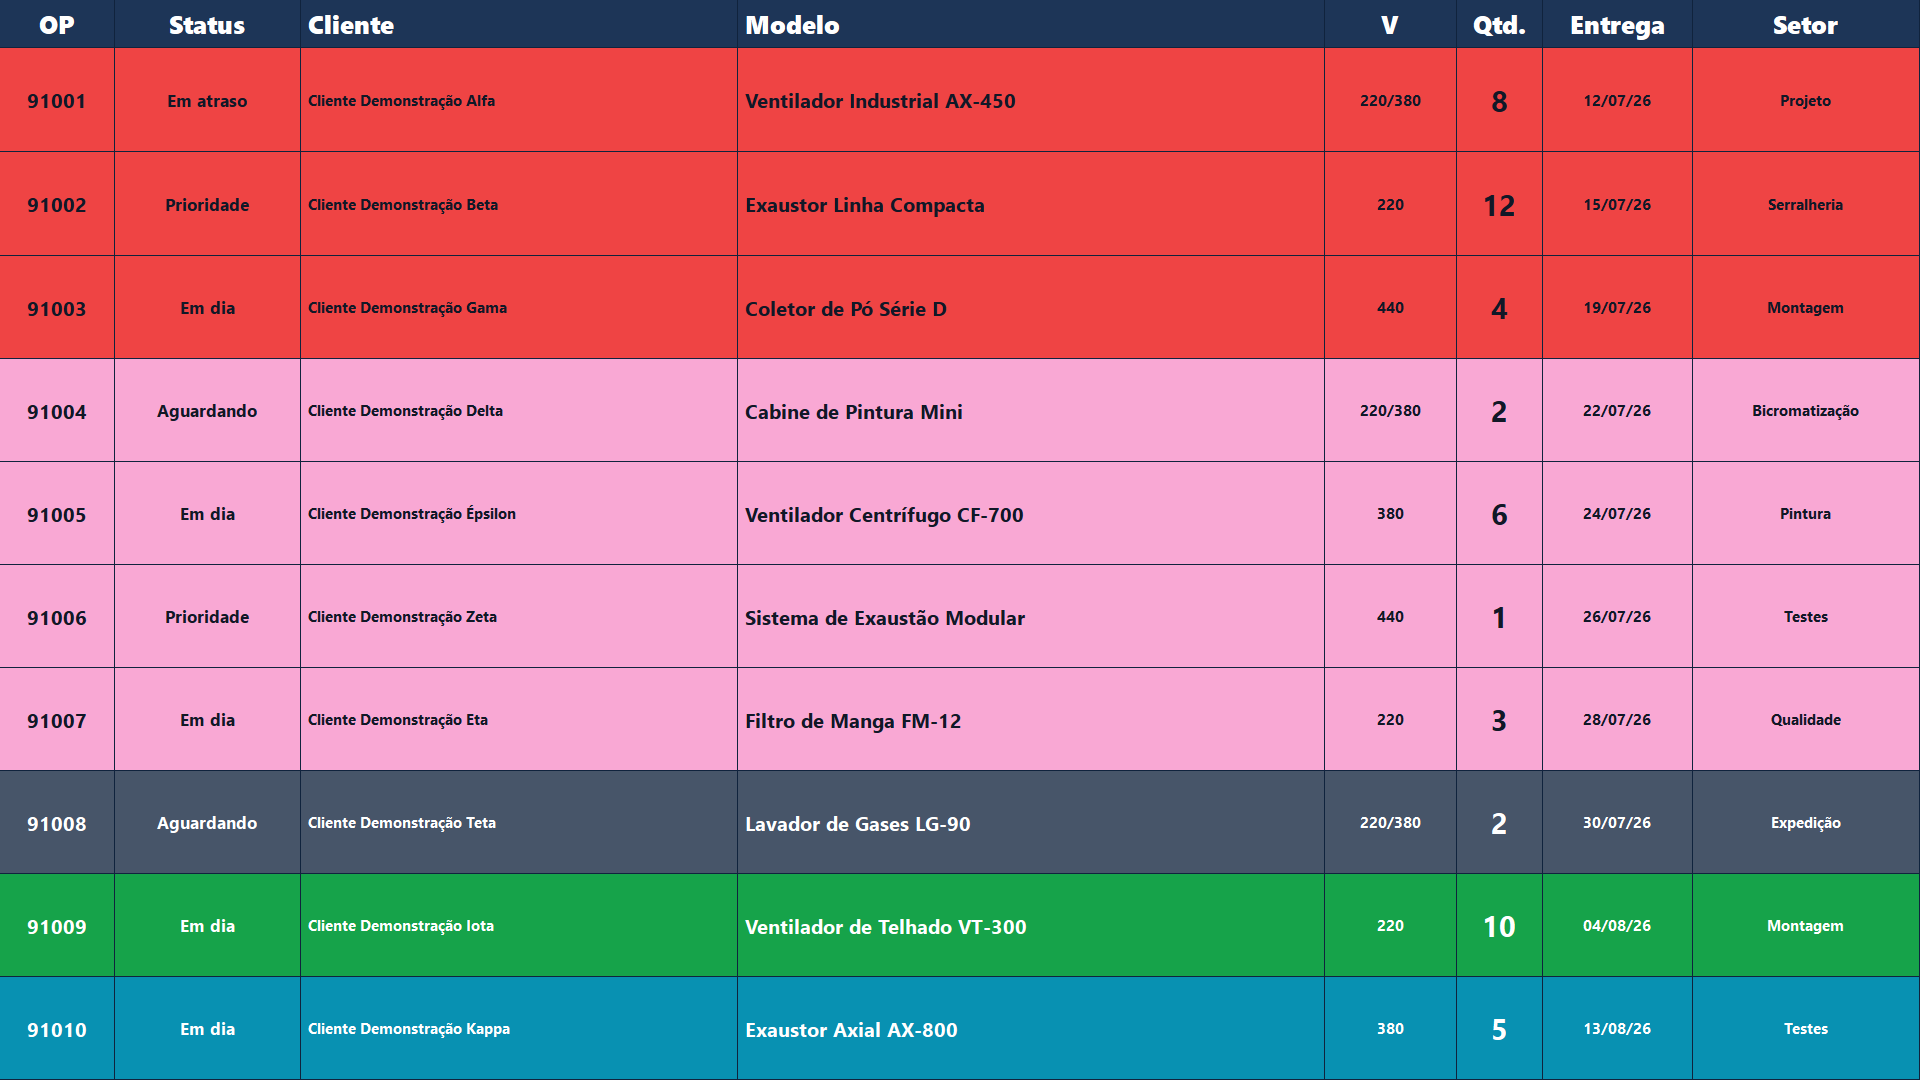
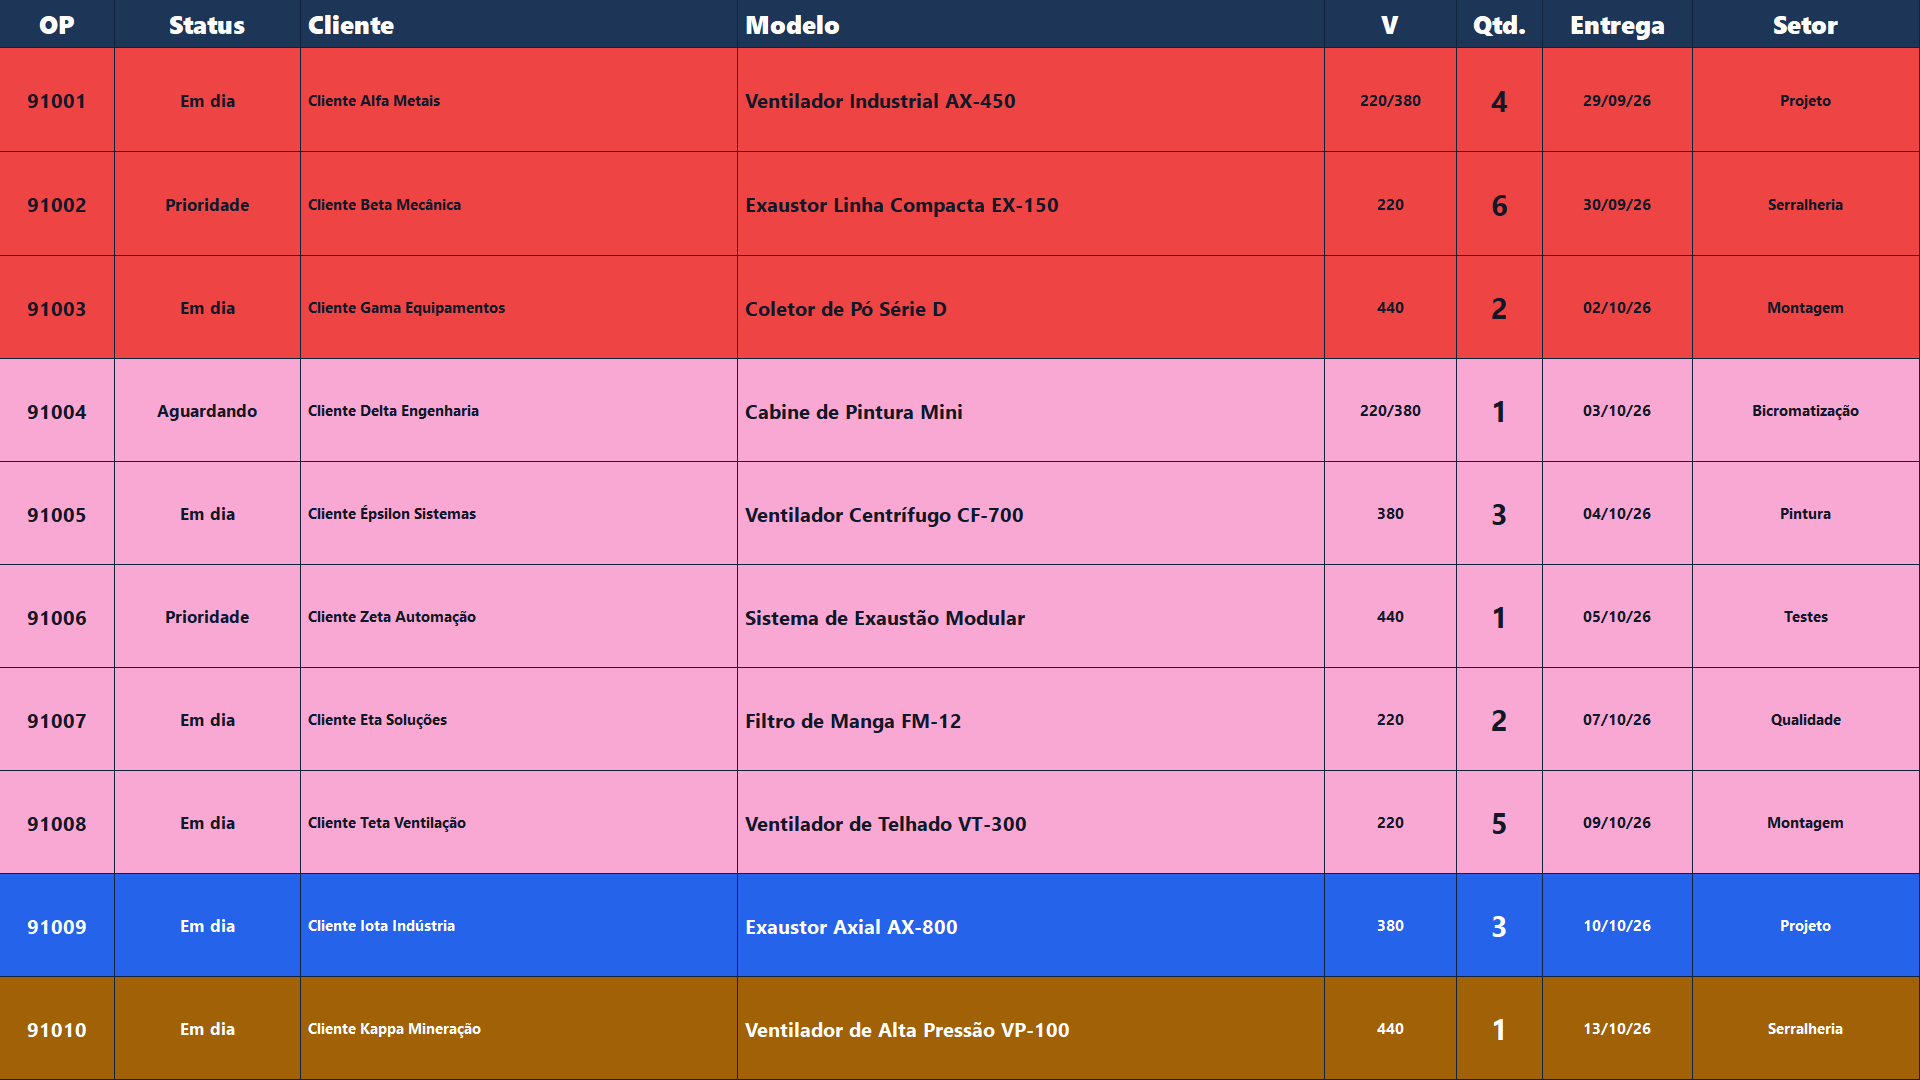
Atualiza telas e documentação da Produção Operacional

diff --git a/README.md b/README.md
@@ -15,7 +15,7 @@
 
 [Case no portfólio](https://mayconxzdev.github.io/cases/producao-operacional/) · [Executar demonstração](#executar-a-demonstração) · [Arquitetura](#arquitetura)
 
-<img src="assets/screenshots/escritorio-demo.png" alt="Tela demonstrativa do Produção Operacional no modo Escritório" width="100%">
+<img src="assets/screenshots/tela-inicial-demo.png" alt="Tela inicial do modo Demonstração, com ordens fictícias e recursos do Produção Operacional" width="100%">
 
 </div>
 
@@ -23,15 +23,17 @@
 
 ## Visão geral
 
-Criei o **Produção Operacional** para organizar as ordens de produção no escritório e oferecer uma visão coletiva na fábrica. O sistema também acompanha uma origem configurada no NAS e inclui automaticamente novas OPs nos horários definidos pela operação.
+Criei o **Produção Operacional** para organizar ordens de produção no escritório e compartilhar o andamento com a fábrica. O sistema também permite programar lembretes para a TV/Foco e consultar relatórios mensais de produção.
 
 | Aspecto | Situação atual |
 |---|---|
 | **Implantação** | Versão interna instalada em 10+ computadores e uma TV de fábrica. |
 | **Alcance** | Apoia 20+ profissionais distribuídos em nove setores produtivos, além da gestão no escritório. |
 | **Uso diário** | A TV/Foco funciona como referência coletiva para identificar novas OPs e acompanhar onde cada ordem está no processo. |
-| **Automação** | Uma estação integradora verifica documentos novos no NAS. Na implantação atual, a rotina executa de segunda a sexta às 10h e 15h. |
-| **Continuidade** | NAS somente leitura, linha de base para não reimportar documentos antigos, cache local e bloqueio de OP duplicada. |
+| **Automação** | Uma estação integradora verifica a origem configurada conforme a agenda definida pela operação. |
+| **TV/Foco** | Lembretes podem ser programados com mensagem, dia, horário, frequência e duração. |
+| **Relatórios** | A equipe escolhe o mês e exporta o relatório de produção em PDF ou Excel. |
+| **Continuidade** | Importação revisável, bloqueio de OP duplicada e cache local para leitura durante falhas transitórias. |
 | **Minha atuação** | Produto, arquitetura, interface, banco, migrações, importação, instalador, implantação, treinamento e sustentação. |
 
 ## Modos de uso
@@ -44,17 +46,33 @@ A arquitetura usa SQLite configurável, cache local para leitura, migrações, p
 
 ## Interface
 
-### Escritório
+As telas que mostram ordens vêm do modo Demonstração, com registros fictícios. Na captura do relatório mensal, os nomes de clientes foram desfocados.
 
-![Tela do modo Escritório com OPs fictícias](assets/screenshots/escritorio-demo.png)
+### Escritório — modo Demonstração
+
+![Tela inicial do modo Demonstração com 10 OPs fictícias](assets/screenshots/tela-inicial-demo.png)
 
 ### TV/Foco
 
-![Painel TV/Foco em tela cheia](assets/screenshots/tv-foco-demo.png)
+![Painel TV/Foco em tela cheia com dados de demonstração](assets/screenshots/tv-foco-demo.png)
 
 ### Setores e contraste
 
-![Personalização de setores](assets/screenshots/personalizacao-setores.png)
+![Configuração de setores, cores e contraste no modo Demonstração](assets/screenshots/personalizacao-setores-demo.png)
+
+### Lembretes na TV
+
+![Agendamento de lembrete para a TV/Foco](assets/screenshots/lembrete-agendamento-demo.png)
+
+A pessoa define a mensagem, o dia e o horário em que o aviso deve aparecer e ajusta sua frequência e duração na tela.
+
+![Preferências visuais e lembretes programados](assets/screenshots/lembretes-configuracao-demo.png)
+
+### Relatórios mensais
+
+![Relatório mensal com nomes de clientes desfocados e opções de exportação PDF e Excel](assets/screenshots/relatorio-mensal-clientes-desfocados.png)
+
+O relatório reúne indicadores, gráficos e ordens do mês selecionado. Os nomes de clientes estão desfocados nesta captura.
 
 ## O que desenvolvi
 
@@ -65,33 +83,23 @@ A arquitetura usa SQLite configurável, cache local para leitura, migrações, p
 - SQLite com repositórios, migrações e backup antes de alterações de schema;
 - cache local para manter a TV útil durante indisponibilidades transitórias da fonte;
 - importação revisável de PDF, DOCX e ODT, com OCR opcional para documentos digitalizados;
+- lembretes gerais ou ligados a uma OP, programados para aparecer na TV/Foco em dia e horário definidos;
+- relatório mensal com indicadores e gráficos, exportável em PDF vetorial ou planilha Excel;
 - empacotamento com PyInstaller e instalador Inno Setup;
 - modo Demonstração isolado;
 - tarefa agendada para descobrir apenas novas OPs em uma estrutura de pastas configurada.
 
+## Decisões e trade-offs
+
+- Mantive o aplicativo nativo para Windows e usei SQLite configurável para aproveitar as estações já disponíveis na operação. Isso simplifica a implantação local, mas exige cuidar da configuração e das atualizações em cada estação.
+- A TV/Foco guarda um cache local de leitura para continuar mostrando o último estado válido durante uma falha temporária. O cache ajuda na visualização; alterações continuam dependendo da fonte configurada.
+- Separei o modo Demonstração, com banco local próprio e ordens fictícias, para que seja possível conhecer e testar os fluxos sem alcançar o ambiente de trabalho.
+
 ## Integração automática de novas OPs
 
-A estação integradora consulta a origem configurada em dias e horários definidos pela operação. Na implantação atual, a verificação ocorre **de segunda a sexta às 10h e 15h**. Os horários são configuráveis e a edição pública mantém exemplos neutros.
+A aplicação pode procurar documentos novos em uma origem configurada pela equipe e executar a verificação na agenda definida para a estação integradora. A primeira execução registra uma linha de base; as seguintes analisam somente novos arquivos, validam os campos necessários e evitam importar números já existentes. A origem permanece somente leitura: o fluxo não move, renomeia nem apaga os arquivos.
 
-O fluxo:
-
-1. cria uma linha de base dos documentos existentes na primeira execução;
-2. nas execuções seguintes, procura somente arquivos novos;
-3. extrai número da OP, cliente, modelo, quantidade, tensão e prazo;
-4. rejeita registros incompletos ou números já existentes;
-5. grava a nova OP no banco para consulta no escritório e exibição na TV;
-6. não move, renomeia ou apaga arquivos do NAS.
-
-```mermaid
-flowchart LR
-    NAS["NAS somente leitura"] --> DISC["Descoberta agendada"]
-    DISC --> VALID["Validação + anti-duplicidade"]
-    VALID --> DB[("SQLite configurado")]
-    DB --> OFFICE["10+ computadores"]
-    DB --> TV["TV/Foco"]
-    TV --> TEAM["20+ profissionais · 9 setores"]
-    TV -. falha transitória .-> CACHE[("Cache local")]
-```
+Os caminhos, horários e demais valores operacionais são definidos localmente e não fazem parte desta documentação pública.
 
 ## Arquitetura
 
@@ -139,8 +147,8 @@ O instalador suporta os perfis Escritório, TV/Foco e Demonstração e permite d
 
 ## Estado e limites
 
-- OPs, documentos, caminhos, configurações, credenciais e bancos empresariais não fazem parte do repositório;
-- as capturas usam dados fictícios;
+- bancos empresariais, documentos, caminhos e configurações reais não fazem parte do repositório;
+- as telas de demonstração usam OPs fictícias; os nomes de clientes na captura do relatório mensal foram desfocados;
 - o produto atual atende a uma operação interna; uma expansão multiunidade exigiria identidade corporativa, telemetria, banco transacional central e observabilidade;
 - OCR é opcional e toda importação permanece revisável.
 
